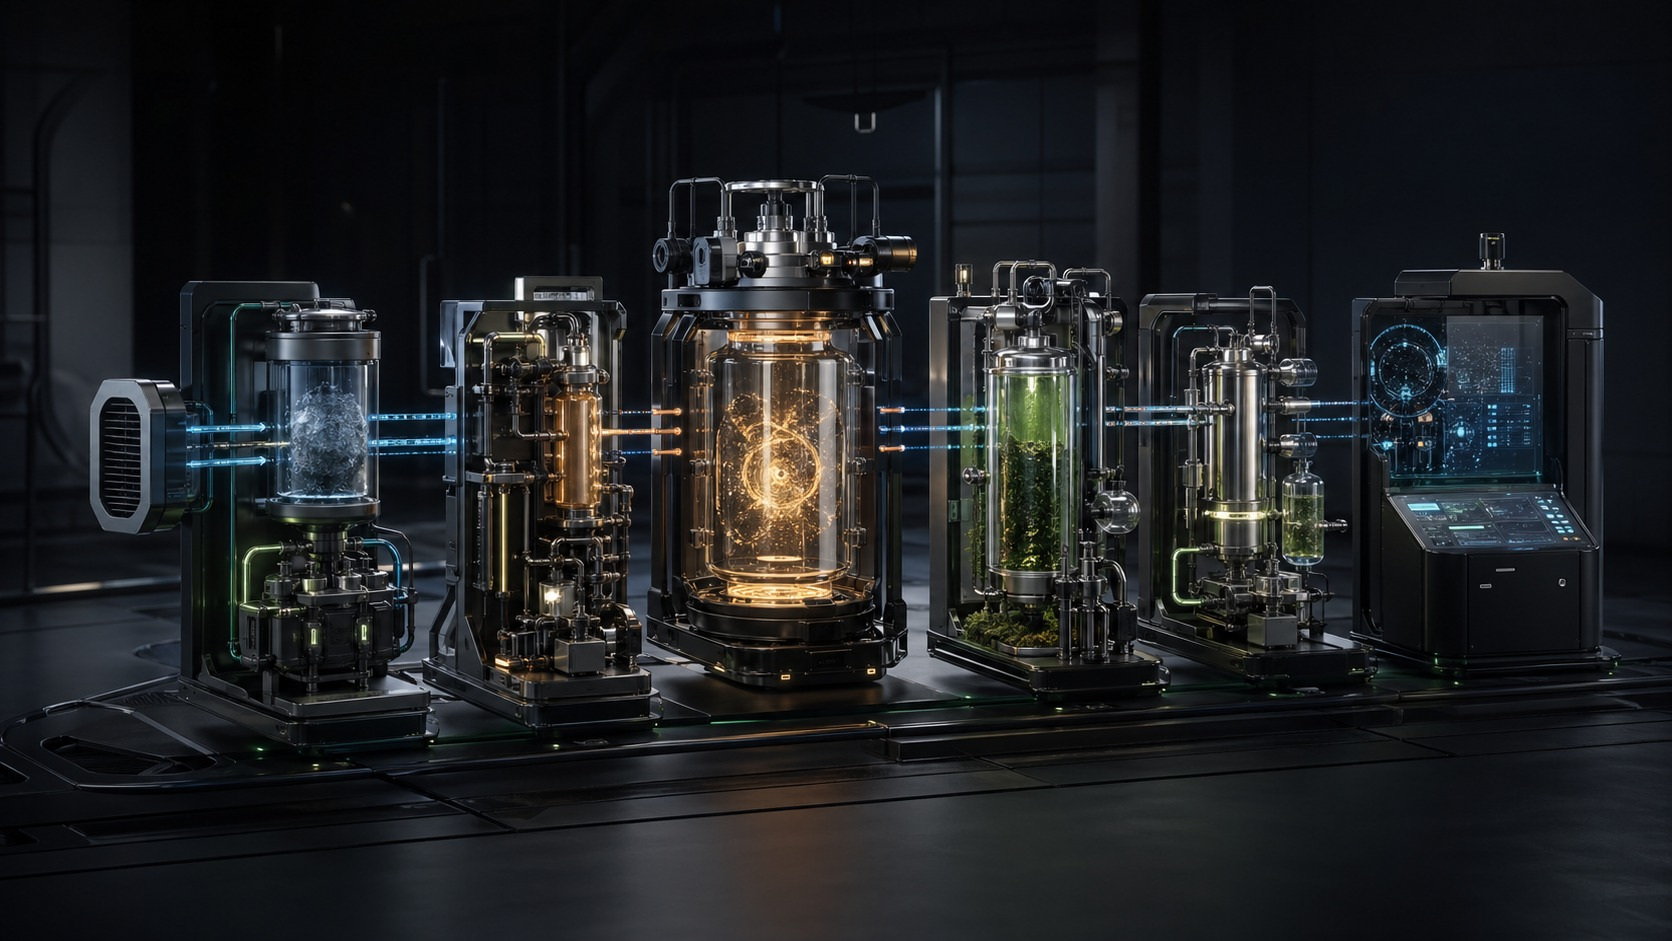
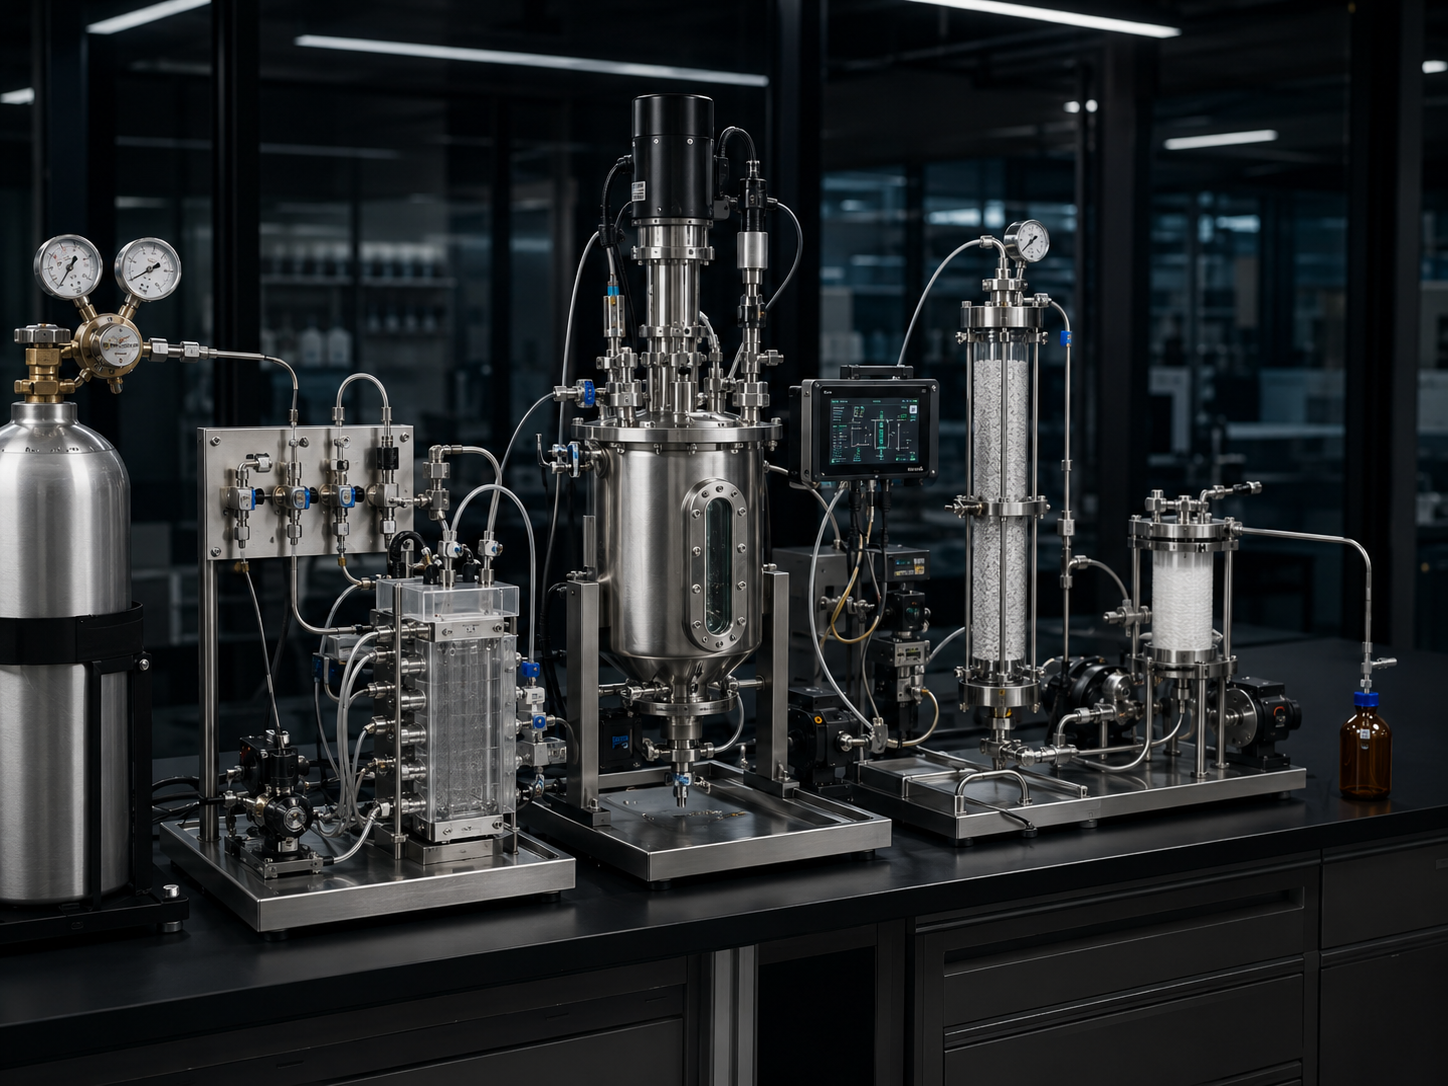
Deploy homepage visual polish

diff --git a/eden-engine.php b/eden-engine.php
@@ -3,7 +3,7 @@
  * Plugin Name: Eden Engine
  * Plugin URI: https://github.com/jackrichardlawson/eden-engine-wordpress-plugin
  * Description: Eden Engine website pages, carbon conversion platform sections, and technical brief intake components.
- * Version: 0.3.6
+ * Version: 0.3.7
  * Author: Jack Lawson
  * Text Domain: eden-engine
  */
@@ -13,7 +13,7 @@ if ( ! defined( 'ABSPATH' ) ) {
 }
 
 if ( ! defined( 'EDEN_ENGINE_VERSION' ) ) {
-    define( 'EDEN_ENGINE_VERSION', '0.3.6' );
+    define( 'EDEN_ENGINE_VERSION', '0.3.7' );
 }
 
 if ( ! defined( 'EDEN_ENGINE_PLUGIN_FILE' ) ) {

diff --git a/wordpress-plugin/includes/shortcodes.php b/wordpress-plugin/includes/shortcodes.php
@@ -263,7 +263,7 @@ if ( ! function_exists( 'eden_engine_post_image_url' ) ) {
 
         $fallbacks = array(
             EDEN_ENGINE_PLUGIN_URL . 'assets/images/eden-engine/pages/home/phase-1-co2-to-sugar.jpg',
-            EDEN_ENGINE_PLUGIN_URL . 'assets/images/eden-engine/pages/home/hero-reactor.jpg',
+            EDEN_ENGINE_PLUGIN_URL . 'assets/images/eden-engine/pages/home/pilot-system-hero.png',
             EDEN_ENGINE_PLUGIN_URL . 'assets/images/eden-engine/pages/home/platform-pathways.jpg',
             EDEN_ENGINE_PLUGIN_URL . 'assets/images/eden-engine/pages/home/roadmap-preview.jpg',
         );